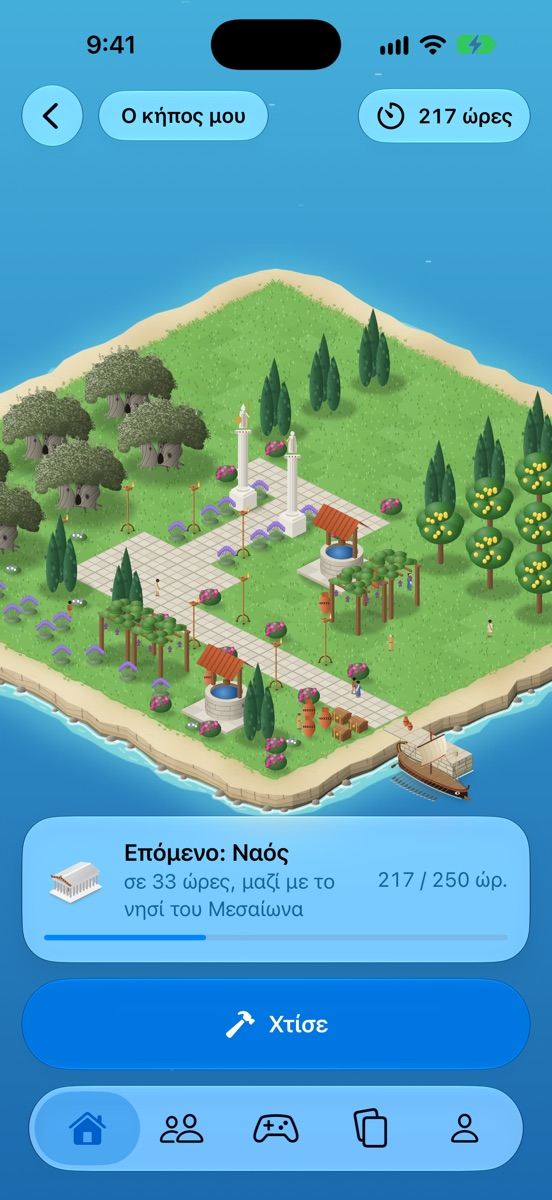
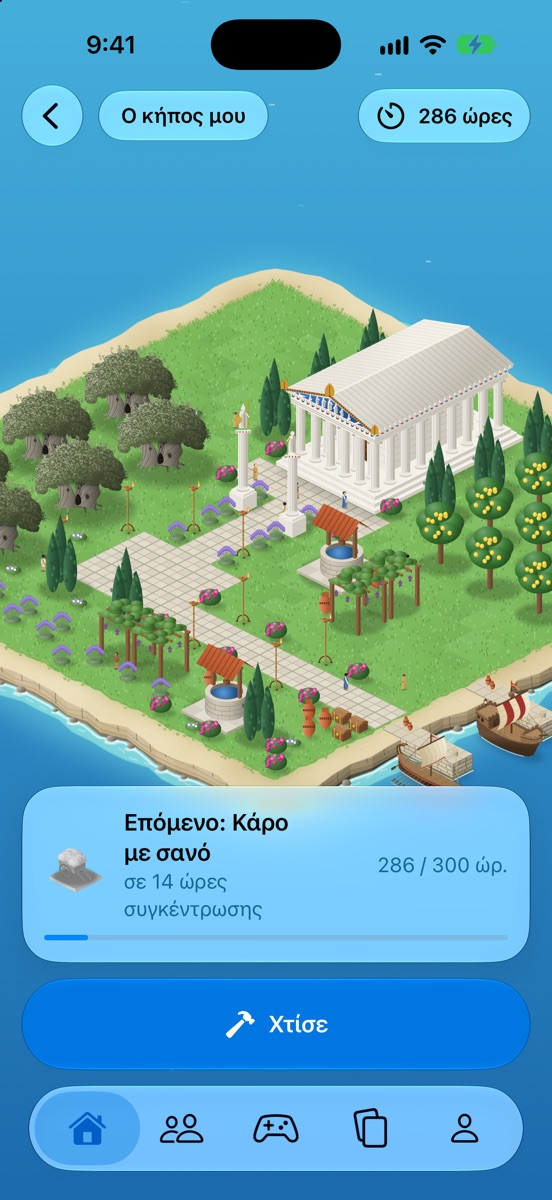
Ο κήπος με 286 ώρες, με τον ναό

diff --git a/index.html b/index.html
@@ -154,7 +154,7 @@
           <li>Τον κήπο σου τον βλέπουν οι φίλοι σου, και τον έχεις και σε widget στην αρχική οθόνη.</li>
         </ul>
       </div>
-      <figure class="shot"><div class="phone"><img src="/assets/screens/garden.jpg?v=5cac9863" alt="Ο κήπος της Αρχαίας Ελλάδας με 217 ώρες συγκέντρωσης: ελαιώνας, δύο στήλες, πηγάδια και λεμονιές, και επόμενος ο ναός." width="552" height="1200" loading="lazy"></div></figure>
+      <figure class="shot"><div class="phone"><img src="/assets/screens/garden.jpg?v=9baf6bda" alt="Ο κήπος της Αρχαίας Ελλάδας με 286 ώρες συγκέντρωσης: ο ναός, δύο στήλες, ελαιώνας, πηγάδια και λεμονιές." width="552" height="1200" loading="lazy"></div></figure>
     </article>
 
     <article class="feature feature-flip">
